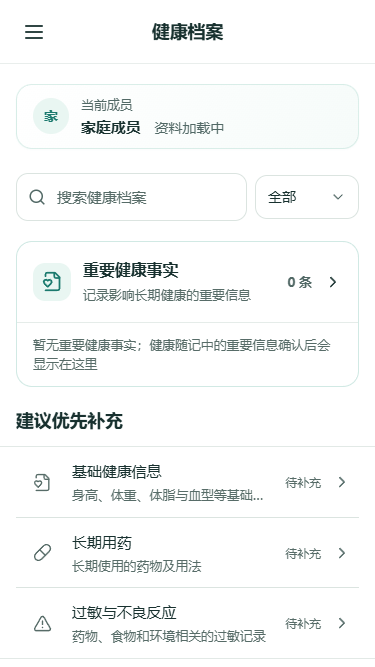
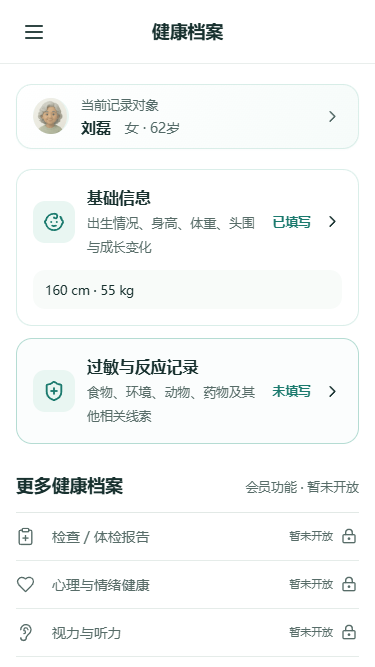
refactor health profile overview

diff --git a/src/pages/HealthProfile/index.tsx b/src/pages/HealthProfile/index.tsx
@@ -1,125 +1,57 @@
-import { Activity, AlertTriangle, Baby, CalendarDays, ChevronRight, FileHeart, HeartPulse, Moon, Pill, Search, Stethoscope, Syringe, UserRound, UsersRound, Utensils, type LucideIcon } from 'lucide-react'
-import { useNavigate } from 'react-router-dom'
-import { useMemo, useState } from 'react'
+import { Activity, Baby, ChevronRight, Circle, ClipboardPlus, Ear, Heart, HeartPulse, Hospital, LockKeyhole, Pill, Scissors, ShieldPlus, Syringe, UsersRound, type LucideIcon } from 'lucide-react'
+import { useEffect, useMemo, useState } from 'react'
+import { useLocation, useNavigate } from 'react-router-dom'
 import { Typography } from '../../components/design-system'
+import { RecordSubjectCard } from '../../components/health'
 import { MainAppHeader } from '../../components/navigation'
-import { MemberIdentityCard } from '../../components/health'
-import { useCurrentMember } from '../../hooks/useCurrentMember'
-import { healthProfileSections, type HealthProfileSectionConfig } from '../../features/health-profile/config/healthProfileSections'
-import { healthProfilePriorities } from '../../features/health-profile/config/healthProfileTemplates'
-import { getHealthProfileType } from '../../features/health-profile/utils/getHealthProfileProfile'
 import { getStoredHealthProfileSectionSnapshots } from '../../features/health-profile/utils/getHealthProfileSectionGroups'
-import { buildPersonalizedHealthDirectory, type HealthProfileViewStatus } from '../../features/health-profile/utils/healthProfileHomeLogic'
-import { hasBasicHealthProfileValues } from '../../features/health-profile/utils/healthProfileBasicInfo'
-import { useHealthProfileFacts } from '../../features/health-profile/hooks/useHealthProfileFacts'
+import { healthEventService } from '../../services/healthEvents'
+import { useAppStore } from '../../store/useAppStore'
+import type { HealthEventApiDto, Member } from '../../types'
+import { formatAgeFromBirthday } from '../../utils/formatAgeFromBirthday'
+import { buildAllergyOverview, buildBasicOverview } from './healthProfileOverview'
 
-const icons: Record<HealthProfileSectionConfig['icon'], LucideIcon> = {
-  activity: Activity, allergy: AlertTriangle, baby: Baby, calendar: CalendarDays, care: UserRound,
-  family: UsersRound, file: FileHeart, heart: HeartPulse, pill: Pill, sleep: Moon,
-  stethoscope: Stethoscope, syringe: Syringe, utensils: Utensils,
-}
-const statusLabels: Record<HealthProfileViewStatus, string> = { all: '全部', filled: '已填写', empty: '未填写' }
-const groupLabels: Partial<Record<HealthProfileSectionConfig['category'], string>> = {
-  lifestyle: '生活方式', 'long-term': '健康维护', child: '儿童与成长', female: '女性健康', elder: '老年健康', core: '其他健康档案'
-}
-const categoryOrder: HealthProfileSectionConfig['category'][] = ['lifestyle', 'long-term', 'child', 'female', 'elder', 'core']
+const lockedSections: Array<{ title: string; icon: LucideIcon }> = [
+  { title: '检查 / 体检报告', icon: ClipboardPlus }, { title: '心理与情绪健康', icon: Heart }, { title: '视力与听力', icon: Ear },
+  { title: '口腔与牙齿', icon: Circle }, { title: '疫苗接种史', icon: Syringe }, { title: '长期用药', icon: Pill },
+  { title: '慢性病史', icon: HeartPulse }, { title: '手术史', icon: Scissors }, { title: '住院 / 急诊史', icon: Hospital },
+  { title: '输血史', icon: Activity }, { title: '家族遗传史', icon: UsersRound },
+]
+const genderLabels = { male: '男', female: '女', undisclosed: '未填写', '': '未填写' } as const
 
-function getSectionSummary(section: HealthProfileSectionConfig, records: Array<Record<string, unknown>> = []) {
-  if (!records.length) return section.description
-  const visible = section.fields.flatMap((field) => {
-    const value = records[0]?.[field.id]
-    if (value == null || value === '' || value === false) return []
-    return [`${field.label}：${String(value)}`]
-  }).slice(0, 2)
-  return visible.join(' · ') || `已记录 ${records.length} 项`
-}
-
-function ProfileSectionRows({ recordedIds, sections, summaries }: { recordedIds: ReadonlySet<string>; sections: HealthProfileSectionConfig[]; summaries: ReadonlyMap<string, string> }) {
-  const navigate = useNavigate()
-  return <div className="profile-directory-group">{sections.map((section) => {
-    const Icon = icons[section.icon]
-    return <button className="hoho-surface-row" key={section.id} onClick={() => navigate(`/health-profile/${section.id}`)} type="button">
-      <span className="profile-directory-icon"><Icon size={19} strokeWidth={1.75} /></span>
-      <span className="min-w-0 flex-1 text-left"><Typography className="font-medium text-text-primary" variant="body">{section.title}</Typography><Typography className="mt-0.5 block truncate" variant="caption">{summaries.get(section.id) ?? section.description}</Typography></span>
-      <span className="profile-directory-status" data-filled={recordedIds.has(section.id)}>{recordedIds.has(section.id) ? '已填写' : '待补充'}</span>
-      <ChevronRight className="shrink-0 text-text-secondary" size={18} />
-    </button>
-  })}</div>
+function exactCurrentMember(currentMemberId: string, members: Member[], profile: ReturnType<typeof useAppStore.getState>['profile']): Member {
+  const member = members.find((item) => item.id === currentMemberId)
+  if (member) return member
+  if (currentMemberId === 'self' && profile) return { id: 'self', name: profile.nickname, age: formatAgeFromBirthday(profile.birthday), relation: '本人', birthday: profile.birthday, gender: profile.gender, avatar: profile.avatar }
+  return { id: currentMemberId, name: '记录对象加载中', age: '', relation: '其他' }
 }
 
 export function HealthProfilePage() {
-  const member = useCurrentMember()
-  const navigate = useNavigate()
-  const longTermFacts = useHealthProfileFacts(member.id)
-  const [query, setQuery] = useState('')
-  const [status, setStatus] = useState<HealthProfileViewStatus>('all')
-  const profileType = getHealthProfileType(member.birthday, member.gender)
-  const hasBasicValues = hasBasicHealthProfileValues(member)
-  const stored = useMemo(() => getStoredHealthProfileSectionSnapshots(member.id), [member.id])
-  const recordsBySection = useMemo(() => new Map(stored.map(({ id, records }) => [id, records])), [stored])
-  const summaries = useMemo(() => new Map(healthProfileSections.map((section) => (
-    [section.id, getSectionSummary(section, recordsBySection.get(section.id))]
-  ))), [recordsBySection])
-  const recordedIds = useMemo(() => {
-    const ids = new Set(stored.map(({ id }) => id))
-    if (hasBasicValues) ids.add('basic')
-    return ids
-  }, [hasBasicValues, stored])
-  const directory = useMemo(() => buildPersonalizedHealthDirectory(
-    healthProfileSections,
-    profileType,
-    healthProfilePriorities[profileType],
-    recordedIds,
-    query,
-    status
-  ), [profileType, query, recordedIds, status])
-  const quickSections = useMemo(() => directory.priority.filter((section) => !recordedIds.has(section.id)).slice(0, 3), [directory.priority, recordedIds])
-  const directorySections = useMemo(() => {
-    const quickIds = new Set(quickSections.map(({ id }) => id))
-    return [...directory.priority.filter(({ id }) => !quickIds.has(id)), ...directory.remaining]
-  }, [directory.priority, directory.remaining, quickSections])
-  const grouped = useMemo(() => categoryOrder.flatMap((category) => {
-    const sections = directorySections.filter((section) => section.category === category)
-    return sections.length ? [{ category, sections }] : []
-  }), [directorySections])
-  const filtering = Boolean(query.trim()) || status !== 'all'
+  const navigate = useNavigate(), location = useLocation()
+  const token = useAppStore((state) => state.authToken)
+  const currentMemberId = useAppStore((state) => state.currentMemberId)
+  const members = useAppStore((state) => state.members)
+  const profile = useAppStore((state) => state.profile)
+  const member = exactCurrentMember(currentMemberId, members, profile)
+  const [allergyEvents, setAllergyEvents] = useState<HealthEventApiDto[]>([])
+  const stored = useMemo(() => getStoredHealthProfileSectionSnapshots(currentMemberId), [currentMemberId])
+  const records = useMemo(() => new Map(stored.map((item) => [item.id, item.records])), [stored])
+  const basic = useMemo(() => buildBasicOverview(member, records), [member, records])
+  const allergy = useMemo(() => buildAllergyOverview(records.get('allergy'), allergyEvents, currentMemberId), [allergyEvents, currentMemberId, records])
 
-  return <main className="app-shell">
-    <MainAppHeader title="健康档案" />
-    <div className="page-content pb-10">
-      <MemberIdentityCard member={member} />
+  useEffect(() => {
+    if (!token || currentMemberId === 'self') { setAllergyEvents([]); return }
+    const controller = new AbortController()
+    healthEventService.list(token, controller.signal).then((events) => setAllergyEvents(events.filter((event) => event.memberId === currentMemberId && event.category === 'allergy'))).catch((error) => { if (!(error instanceof DOMException && error.name === 'AbortError')) setAllergyEvents([]) })
+    return () => controller.abort()
+  }, [currentMemberId, token])
 
-      <section className="health-profile-search grid grid-cols-[minmax(0,1fr)_104px] items-center gap-2" aria-label="搜索和查看状态">
-        <label className="relative min-w-0"><Search className="absolute left-3 top-1/2 -translate-y-1/2 text-text-secondary" size={18} /><span className="sr-only">搜索健康档案</span><input className="hoho-input w-full pl-10" placeholder="搜索健康档案" type="search" value={query} onChange={(event) => setQuery(event.target.value)} /></label>
-        <label className="min-w-0">
-          <span className="sr-only">查看状态</span>
-          <select
-            aria-label="查看状态"
-            className="hoho-select h-11 min-h-11 w-full px-3 text-sm"
-            value={status}
-            onChange={(event) => setStatus(event.target.value as HealthProfileViewStatus)}
-          >
-            {Object.entries(statusLabels).map(([value, label]) => <option key={value} value={value}>{label}</option>)}
-          </select>
-        </label>
-      </section>
-
-      <section className="health-fact-home-card mt-5" aria-label="重要健康事实">
-        <button onClick={() => navigate('/health-profile/facts')} type="button">
-          <span className="health-fact-home-card__icon"><FileHeart size={21} /></span>
-          <span className="min-w-0 flex-1 text-left"><Typography variant="cardTitle">重要健康事实</Typography><Typography className="mt-1" variant="caption">记录影响长期健康的重要信息</Typography></span>
-          <span className="health-fact-home-card__count">{longTermFacts.status === 'success' ? `${longTermFacts.facts.filter((fact) => fact.status !== 'removed').length} 条` : '—'}</span>
-          <ChevronRight size={18} />
-        </button>
-        {longTermFacts.status === 'success' && longTermFacts.candidates.length > 0 && <button className="health-fact-home-card__inbox" onClick={() => navigate('/health-profile/facts')} type="button"><span>发现 {longTermFacts.candidates.length} 条可长期保留的信息</span><span>需要你确认</span></button>}
-        {longTermFacts.status === 'success' && longTermFacts.facts.length === 0 && longTermFacts.candidates.length === 0 && <Typography className="health-fact-home-card__empty" variant="caption">暂无重要健康事实；健康随记中的重要信息确认后会显示在这里</Typography>}
-      </section>
-
-      {directory.visible.length === 0 ? <section className="py-16 text-center"><Typography variant="sectionTitle">没有找到对应档案</Typography><Typography className="mt-2" variant="caption">可以更换搜索词或查看状态</Typography></section> : <>
-        {quickSections.length > 0 && <section className="mt-5 grid gap-3" aria-label="建议优先补充"><Typography variant="sectionTitle">建议优先补充</Typography><ProfileSectionRows recordedIds={recordedIds} sections={quickSections} summaries={summaries} /></section>}
-        {grouped.map(({ category, sections }) => <section className="mt-6 grid gap-3" key={category}><Typography variant="sectionTitle">{groupLabels[category]}</Typography><ProfileSectionRows recordedIds={recordedIds} sections={sections} summaries={summaries} /></section>)}
-        {filtering && directory.remaining.length === 0 && directory.priority.length > 0 && <Typography className="mt-4 text-center" variant="caption">已显示全部匹配项目</Typography>}
-      </>}
-    </div>
-  </main>
+  return <main className="app-shell health-profile-overview"><MainAppHeader title="健康档案" /><div className="page-content pb-10">
+    <RecordSubjectCard action={<ChevronRight aria-hidden="true" className="text-text-secondary" size={19} />} age={member.birthday ? formatAgeFromBirthday(member.birthday) : member.age} avatar={member.avatar} gender={genderLabels[member.gender ?? '']} label="当前记录对象" name={member.name} onClick={() => navigate('/family', { state: { familyEntry: { returnTo: `${location.pathname}${location.search}${location.hash}`, reopenDrawer: false } } })} />
+    <section className="health-profile-open-list mt-5" aria-label="开放健康档案">
+      <button className="health-profile-open-card" onClick={() => navigate('/health-profile/basic')} type="button"><span className="health-profile-open-card__icon"><Baby aria-hidden="true" size={22} /></span><span className="min-w-0 flex-1 text-left"><Typography variant="cardTitle">基础信息</Typography><Typography className="mt-1" variant="caption">出生情况、身高、体重、头围与成长变化</Typography></span><span className="health-profile-open-card__status">{basic.filled ? '已填写' : '未填写'}</span><ChevronRight aria-hidden="true" size={19} />{basic.summary && <span className="health-profile-open-card__summary">{basic.summary}</span>}</button>
+      <button className="health-profile-open-card health-profile-open-card--allergy" onClick={() => navigate('/health-profile/allergy')} type="button"><span className="health-profile-open-card__icon"><ShieldPlus aria-hidden="true" size={22} /></span><span className="min-w-0 flex-1 text-left"><Typography variant="cardTitle">过敏与反应记录</Typography><Typography className="mt-1" variant="caption">食物、环境、动物、药物及其他相关线索</Typography></span><span className="health-profile-open-card__status">{allergy.total ? `共${allergy.total}项` : allergy.latest ? '已有记录' : '未填写'}</span><ChevronRight aria-hidden="true" size={19} />{allergy.total > 0 && <span className="health-profile-allergy-stats"><span>正在排查<strong>{allergy.investigating}</strong></span><span>家长怀疑<strong>{allergy.suspected}</strong></span><span>医生已确认<strong>{allergy.doctorConfirmed}</strong></span></span>}{allergy.latest && <span className="health-profile-open-card__summary"><small>最近一次反应</small>{allergy.latest}</span>}</button>
+    </section>
+    <section className="mt-7" aria-labelledby="more-health-profile-title"><header className="health-profile-locked-heading"><Typography id="more-health-profile-title" variant="sectionTitle">更多健康档案</Typography><Typography variant="caption">会员功能 · 暂未开放</Typography></header><div className="health-profile-locked-list" aria-label="暂未开放的会员健康档案">{lockedSections.map(({ title, icon: Icon }) => <div aria-disabled="true" className="health-profile-locked-row" key={title}><Icon aria-hidden="true" size={19} strokeWidth={1.7} /><span>{title}</span><small>暂未开放</small><LockKeyhole aria-hidden="true" size={16} /></div>)}</div></section>
+  </div></main>
 }

diff --git a/src/styles/product-polish.css b/src/styles/product-polish.css
@@ -84,6 +84,26 @@
     margin-top: var(--hoho-space-6);
   }
 
+  .health-profile-overview { background: rgb(var(--hoho-color-surface)); }
+  .health-profile-open-list { display: grid; gap: var(--hoho-space-3); }
+  .health-profile-open-card { display: grid; grid-template-columns: 42px minmax(0, 1fr) auto 19px; align-items: center; gap: var(--hoho-space-3); width: 100%; border: 1px solid rgb(var(--hoho-color-primary-border) / 0.5); border-radius: var(--hoho-radius-card); padding: var(--hoho-space-4); background: rgb(var(--hoho-color-surface)); text-align: left; }
+  .health-profile-open-card--allergy { border-color: rgb(var(--hoho-color-primary-border)); background: rgb(var(--hoho-color-primary-soft) / 0.18); }
+  .health-profile-open-card__icon { display: grid; width: 42px; height: 42px; place-items: center; border-radius: var(--hoho-radius-control); background: rgb(var(--hoho-color-primary-soft)); color: rgb(var(--hoho-color-primary)); }
+  .health-profile-open-card__status { white-space: nowrap; color: rgb(var(--hoho-color-primary)); font-size: 13px; font-weight: 650; }
+  .health-profile-open-card__summary { grid-column: 1 / -1; display: block; border-radius: var(--hoho-radius-control); padding: 10px 12px; background: rgb(var(--hoho-color-surface-subtle)); color: rgb(var(--hoho-color-text-primary)); font-size: 13px; line-height: 1.5; }
+  .health-profile-open-card__summary small { display: block; margin-bottom: 3px; color: rgb(var(--hoho-color-text-secondary)); font-size: 12px; }
+  .health-profile-allergy-stats { grid-column: 1 / -1; display: grid; grid-template-columns: repeat(3, minmax(0, 1fr)); border-block: 1px solid rgb(var(--hoho-color-primary-border) / 0.42); padding-block: 10px; }
+  .health-profile-allergy-stats > span { color: rgb(var(--hoho-color-text-secondary)); font-size: 12px; text-align: center; }
+  .health-profile-allergy-stats > span + span { border-left: 1px solid rgb(var(--hoho-color-primary-border) / 0.55); }
+  .health-profile-allergy-stats strong { display: block; margin-top: 3px; color: rgb(var(--hoho-color-primary)); font-size: 18px; }
+  .health-profile-locked-heading { display: flex; min-width: 0; align-items: baseline; justify-content: space-between; gap: var(--hoho-space-3); }
+  .health-profile-locked-heading > :last-child { flex: 0 0 auto; }
+  .health-profile-locked-list { margin-top: var(--hoho-space-3); overflow: hidden; border-block: 1px solid rgb(var(--hoho-color-border) / 0.8); }
+  .health-profile-locked-row { display: grid; grid-template-columns: 28px minmax(0, 1fr) auto 18px; min-height: 48px; align-items: center; gap: 8px; border-bottom: 1px solid rgb(var(--hoho-color-border) / 0.7); color: rgb(var(--hoho-color-text-weak)); cursor: default; font-size: 14px; }
+  .health-profile-locked-row:last-child { border-bottom: 0; }
+  .health-profile-locked-row small { white-space: nowrap; font-size: 11px; }
+  @media (max-width: 360px) { .health-profile-locked-row small { display: none; } }
+
   .health-fact-home-card {
     overflow: hidden;
     border: 1px solid rgb(var(--hoho-color-primary-border) / 0.62);

diff --git a/src/pages/HealthProfile/healthProfileOverview.ts b/src/pages/HealthProfile/healthProfileOverview.ts
@@ -1,0 +1,18 @@
+import { normalizeAllergyRecords } from '../../features/health-profile/utils/allergyProfile'
+import type { HealthEventApiDto, Member } from '../../types'
+type SectionRecords = ReadonlyMap<string, Array<Record<string, unknown>>>
+const present = (value: unknown) => value !== null && value !== undefined && value !== '' && value !== false
+const numberText = (value: unknown) => typeof value === 'number' && Number.isFinite(value) ? String(value) : typeof value === 'string' && value.trim() && Number.isFinite(Number(value)) ? value.trim() : ''
+export function buildBasicOverview(member: Member, records: SectionRecords) {
+  const birth = records.get('birth')?.[0] ?? {}, growth = [...(records.get('growth') ?? [])].sort((a, b) => String(b.date ?? b._savedAt ?? '').localeCompare(String(a.date ?? a._savedAt ?? '')))[0] ?? {}, basic = records.get('basic')?.[0] ?? {}
+  const weeks = Number(birth.gestationalWeeks), birthSummary = Number.isFinite(weeks) && weeks > 0 ? (weeks >= 37 ? '足月出生' : '早产出生') : ''
+  const height = numberText(member.heightCm ?? growth.height ?? basic.height), weight = numberText(member.weightKg ?? growth.weight ?? basic.weight), head = numberText(member.headCircumferenceCm ?? growth.headCircumference ?? basic.headCircumference)
+  return { filled: [member.heightCm, member.weightKg, member.headCircumferenceCm, ...Object.values(birth), ...Object.values(growth), ...Object.values(basic)].some(present), summary: [birthSummary, height && `${height} cm`, weight && `${weight} kg`, head && `头围 ${head} cm`].filter(Boolean).join(' · ') }
+}
+const formatChineseDate = (value: string) => { const date = new Date(value); return Number.isNaN(date.getTime()) ? '' : `${date.getMonth() + 1}月${date.getDate()}日` }
+export function buildAllergyOverview(rawRecords: Array<Record<string, unknown>> | undefined, events: HealthEventApiDto[], memberId: string) {
+  const records = normalizeAllergyRecords(rawRecords ?? []).filter((record) => [record.subject, record.type, record.reactionDetail, record.otherReaction, record.impact, record.handling, ...record.reactions].some(present))
+  const latestEvent = events.filter((event) => event.memberId === memberId && event.category === 'allergy').sort((a, b) => b.startTime.localeCompare(a.startTime))[0]
+  const latestText = latestEvent?.eventSummary?.displayedResult.summary?.trim() || latestEvent?.title?.trim() || ''
+  return { total: records.length, investigating: records.filter((r) => r.certainty === '正在排查').length, suspected: records.filter((r) => r.certainty === '怀疑中' || r.certainty === '家长怀疑').length, doctorConfirmed: records.filter((r) => r.certainty === '医生已确认').length, latest: latestEvent && latestText ? `${formatChineseDate(latestEvent.startTime)} · ${latestText}` : '' }
+}

diff --git a/src/pages/HealthProfile/healthProfileOverview.test.ts b/src/pages/HealthProfile/healthProfileOverview.test.ts
@@ -1,0 +1,4 @@
+import assert from 'node:assert/strict'; import test from 'node:test'; import type { HealthEventApiDto, Member } from '../../types'; import { buildAllergyOverview, buildBasicOverview } from './healthProfileOverview.ts'
+const member: Member = { id: 'child-1', name: '孩子', age: '1岁', relation: '子女', heightCm: 78, weightKg: 9.2 }
+test('基础信息合并人物、出生和最新成长数据', () => { const result = buildBasicOverview(member, new Map([['birth', [{ gestationalWeeks: 39 }]], ['growth', [{ date: '2026-01-01', headCircumference: 45 }]]])); assert.equal(result.filled, true); assert.equal(result.summary, '足月出生 · 78 cm · 9.2 kg · 头围 45 cm') })
+test('过敏汇总严格按当前人物和明确状态', () => { const event = (id: string, memberId: string, startTime: string): HealthEventApiDto => ({ id, accountId: 'a', memberId, title: '出现红疹', category: 'allergy', status: 'observing', startTime, createdAt: startTime, updatedAt: startTime }); const result = buildAllergyOverview([{ id:'1', certainty:'正在排查', subject:'花生' },{ id:'2', certainty:'怀疑中', subject:'花粉' },{ id:'3', certainty:'医生已确认', subject:'猫毛' },{ id:'4', certainty:'已明确', subject:'旧记录' },{ id:'empty' }], [event('other','child-2','2026-09-05T00:00:00Z'),event('mine','child-1','2026-09-04T00:00:00Z')], 'child-1'); assert.deepEqual({ total:result.total, investigating:result.investigating, suspected:result.suspected, doctorConfirmed:result.doctorConfirmed }, { total:4, investigating:1, suspected:1, doctorConfirmed:1 }); assert.match(result.latest, /^9月4日 · 出现红疹$/) })
